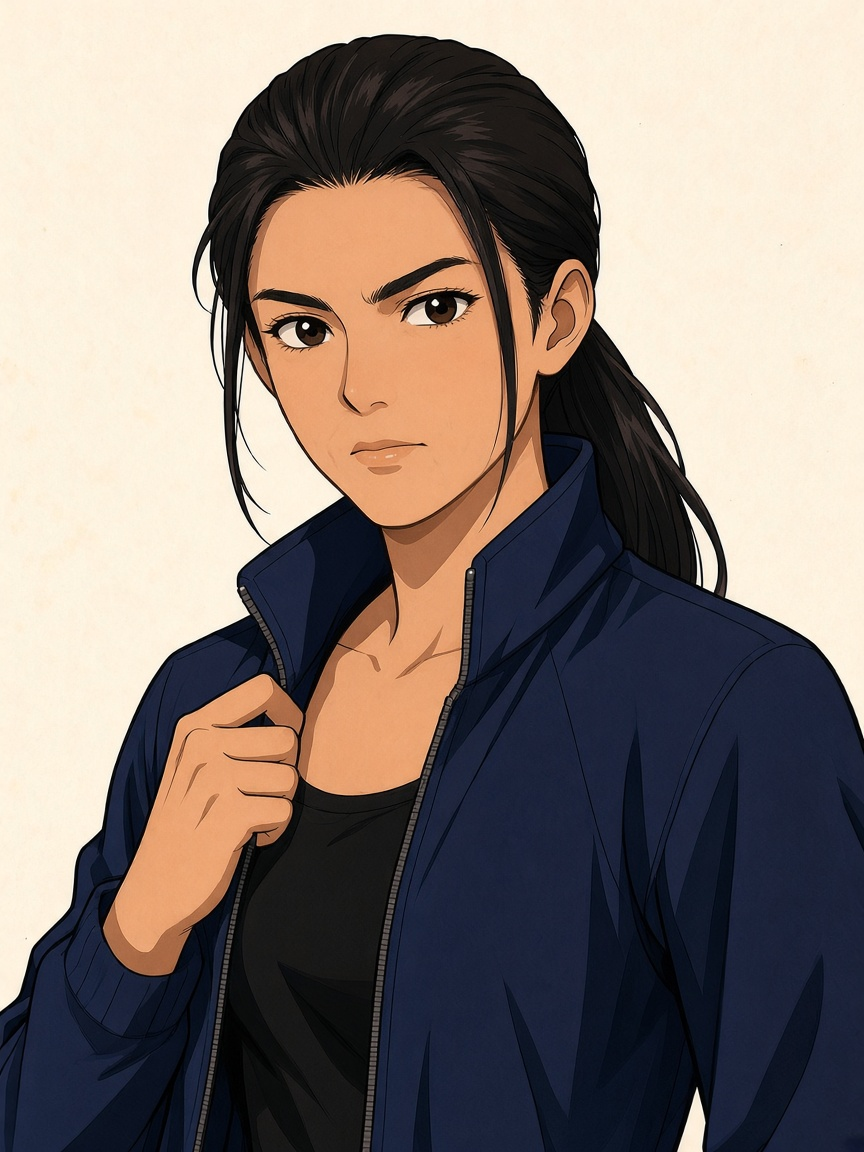
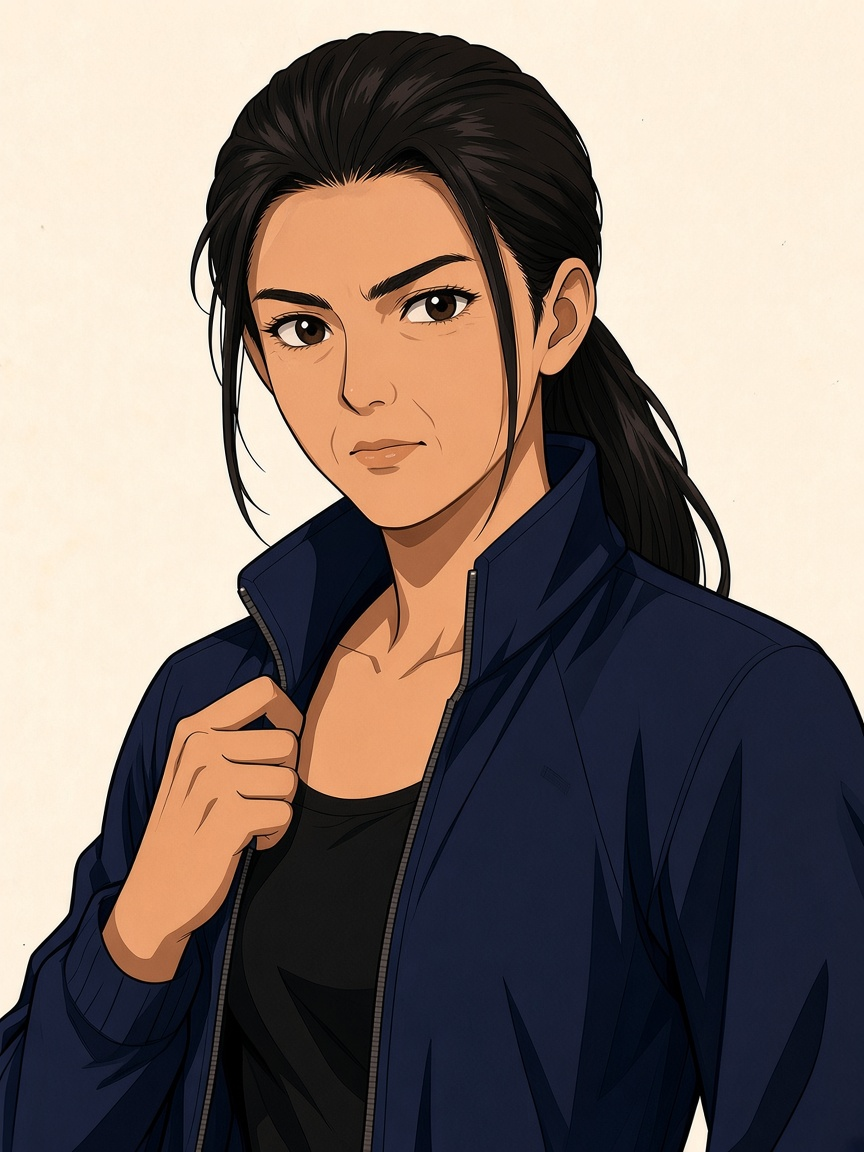
Soft: ngai age Soft nit (ngai bust×3)
Soft tip only. Soft≠PASS. No LIVE tip. SAVE/?v= still 19w.

- ngai_wingnaam default/smile/frown age-up; kara-v5 lock
- so energy busts unchanged; frown jade-v4 lock unchanged
- 89–92 HOLD

diff --git a/assets/story/era_stars/MANIFEST.md b/assets/story/era_stars/MANIFEST.md
@@ -4,7 +4,7 @@
 > **Brief：** `content/ART_BRIEF_MVP_ERA_STARS_v1.md`  
 > **LOOKS：** `content/PLAN_CHAR_LOOKS_REF_v1.md` §C  
 > **Pipeline：** cursor **GenerateImage**（refs `hero_awi.jpg`＋`char_hero_bust_default.png`）→ Pillow cover-crop **864×1152** PNG  
-> **狀態：** **Soft tip 2026-11-05** — **luk leather v5b**＋**liu chow-vibe v10**＋**yip starlet-v3**＋**so jade-v4**＋**ngai kara-v5**（各 bust×3）。5 人 ×3 表情＝15 live bust。ngai kara-v2 已由 kara-v5 取代，唔再係 live。**Soft nits expr** 已換 so smile／luk smile／ngai×3（bak `bak_pre_soft_nits_expr_20261105/` 唔入本 PR）。**so energy Soft nit** 已換 default＋smile（frown 未動；bak 唔入本 PR）。**silhouettes v2** 5／5 `*_silhouette_far.png` 已入 Soft（bak 唔入本 PR）。挑眉 `raise_brow` 後排、唔動。Soft≠PASS；**唔 tip LIVE**；**1989–1992 HOLD**；`?v=` 仍 `19w`；SAVE `starVolunteer_map_v19w`
+> **狀態：** **Soft tip 2026-11-05** — **luk leather v5b**＋**liu chow-vibe v10**＋**yip starlet-v3**＋**so jade-v4**＋**ngai kara-v5**（各 bust×3）。5 人 ×3 表情＝15 live bust。ngai kara-v2 已由 kara-v5 取代，唔再係 live。**Soft nits expr** 已換 so smile／luk smile／ngai×3（bak `bak_pre_soft_nits_expr_20261105/` 唔入本 PR）。**so energy Soft nit** 已換 default＋smile（frown 未動；bak 唔入本 PR）。**ngai age Soft nit** 已換×3（kara-v5 低馬尾＋navy zip 鎖；bak 唔入本 PR）。**silhouettes v2** 5／5 `*_silhouette_far.png` 已入 Soft（bak 唔入本 PR）。挑眉 `raise_brow` 後排、唔動。Soft≠PASS；**唔 tip LIVE**；**1989–1992 HOLD**；`?v=` 仍 `19w`；SAVE `starVolunteer_map_v19w`
 
 ## Style-lock MD5（installed live）
 
@@ -16,9 +16,9 @@
 | `luk_baakyin_bust_default.png` | `f0bc02d8db898c1d6799b8cabed342c7` |
 | `luk_baakyin_bust_frown.png` | `d379b32269a427c4695399c46c553b3a` |
 | `luk_baakyin_bust_smile.png` | `202a6200b9a7bf019d63d8e5c1dd440c` |
-| `ngai_wingnaam_bust_default.png` | `1729ee30129632fd13ed3bad8a297537` |
-| `ngai_wingnaam_bust_frown.png` | `8a4ef50ea433990fb77dcba4db6d90d4` |
-| `ngai_wingnaam_bust_smile.png` | `fea5a4769558bed238a71b6e0273b77b` |
+| `ngai_wingnaam_bust_default.png` | `09f792112aa46a9e11e390cb5daec152` |
+| `ngai_wingnaam_bust_frown.png` | `5df4f5fa6c6317e3e0a189b0eb5bc814` |
+| `ngai_wingnaam_bust_smile.png` | `8f1abdaf2f4a3db803c950e424c30fc0` |
 | `so_jiyan_bust_default.png` | `2cc1a57050e1bf20d847d87938d1c1d0` |
 | `so_jiyan_bust_frown.png` | `f0c0347ebfb54d00993428404ab2e231` |
 | `so_jiyan_bust_smile.png` | `e57ab12a1329850c0b544a92fdd2ea46` |
@@ -34,7 +34,7 @@
 | `yip_manji` | 葉敏芝 | bust×3 + sil **v2** | 864×1152 | **starlet-v3 2026-11-05**：露肩 dusty-rose；邱淑貞／張敏氣質（禁抄臉）；GenerateImage。bak `bak_pre_yip_starlet_v3/` 留盤，唔入本 PR |
 | `so_jiyan` | 蘇芷茵 | bust×3 + `*_silhouette_far.png`（**sil v2 新建**） | 864×1152 | **jade-v4**＋**energy Soft nit 2026-11-05**（default＋smile 更有精神／眼閃；MD5 `2cc1a570`／`e57ab12a`）。frown `f0c0347e` 未動。bak `bak_pre_so_jade_v4/`＋`bak_pre_soft_nits_expr_20261105/`＋`bak_pre_so_energy_soft_nit_20261105/` 留盤，唔入本 PR |
 | `liu_bingxing` | 廖炳星 | bust×3 + sil **v2** | 864×1152 | **chow-vibe v10 2026-11-05**：花恤衫正面；周星馳氣質（禁抄臉）；GenerateImage。bak `bak_pre_liu_chow_v10/` 留盤，唔入本 PR |
-| `ngai_wingnaam` | 魏詠男 | bust×3 + sil **v2** | 864×1152 | **kara-v5**＋**Soft nits expr 2026-11-05×3**（表情差拉開；年齡仍偏嫩）。kara-v2 唔再係 live。bak `bak_pre_ngai_kara_v5/`＋`bak_pre_soft_nits_expr_20261105/` 留盤，唔入本 PR |
+| `ngai_wingnaam` | 魏詠男 | bust×3 + sil **v2** | 864×1152 | **kara-v5**＋**age Soft nit 2026-11-05×3**（晚三十讀齡↑；低馬尾＋navy zip 統一；MD5 `09f79211`／`8f1abdaf`／`5df4f5fa`）。kara-v2 唔再係 live。bak `bak_pre_ngai_kara_v5/`＋`bak_pre_soft_nits_expr_20261105/`＋`bak_pre_ngai_age_soft_nit_20261105/` 留盤，唔入本 PR |
 
 **Bust 底：** cream studio ~`#F2EBD8`（跟 C1／阿偉）。  
 **本 Soft tip：** 15 live bust PNG 仍在（其中 so smile、luk smile、ngai default／smile／frown 換 Soft nits expr）；另加 5 live `*_silhouette_far.png`。preferFile 仍未加 era_stars bust path。Soft gate（`BehaviorGate.gatePath()==="soft"`）遠觀 modal 喺 distanceLook 之上顯示 `{starId}_silhouette_far.png`；Soft off／LIVE 仍係文字＋音（Phase3 B）。蘇芷茵無地圖遠觀釘（主表仍 4 人）；Soft `__phase3.sight("so_jiyan")` 先開佢張剪影。  
@@ -53,7 +53,7 @@
 
 1. `luk_baakyin` smile Soft nit **2026-11-05 已換**（露齒＋酒窩；MD5 `202a6200`）；**frown Soft nit 2026-11-05 已換**（深 V 皺眉＋鼻樑壓＋下撇嘴；MD5 `d379b322`；對開 default smirk／smile 露齒）。Soft nits（唔擋）：怒氣線可再強；眉峰 V 可再銳  
 2. `so_jiyan` **energy Soft nit 2026-11-05 已換** default＋smile（MD5 `2cc1a570`／`e57ab12a`；閉唇淺笑＋眼神／smile 露齒眼閃；frown `f0c0347e` 未動）。Soft nits（唔擋）：default 嘴角仍偏親切微笑（可選再收、專推眼閃）；modern polish 線密度；default NEW RGB vs bak RGBA（尺寸／構圖 OK，記帳 only）  
-3. `ngai_wingnaam` Soft nits expr **2026-11-05 已換×3**（default／smile／frown MD5 `1729ee30`／`fea5a476`／`8a4ef50e`）；**年齡仍偏嫩**（~38 未清）。kara-v2 已由 v5 取代，唔再係 live  
+3. `ngai_wingnaam` **age Soft nit 2026-11-05 已換×3**（default／smile／frown MD5 `09f79211`／`8f1abdaf`／`5df4f5fa`；晚三十 cel 紋／顎線；kara-v5 低馬尾＋navy zip）。kara-v2 唔再係 live。Soft nits（唔擋）：smile 年齡線略重；default 可讀略過 38；髮絲 modern polish；zip vs brief sil（本輪未改 sil）  
 4. `yip_manji` starlet-v3：咬唇／眨眼能量仍可再推；default↔smile 差可再拉開  
 5. `liu_bingxing` chow-vibe v10：default↔smile 差可再拉開；frown 吃癟可再強  
 6. 整體略 modern polished anime／manhwa 線密度（同 core Soft nit），仍係平面 2D 家族——非先前半寫實漂移  
@@ -67,7 +67,7 @@
 
 ## Gates
 
-Soft≠PASS｜唔 tip LIVE｜唔 wake iOS｜89–92 HOLD｜silhouettes v2 Soft tip（遠觀只限 Soft gate）｜expr nits Soft tip｜so energy Soft nit（default＋smile；frown 未動）｜raise_brow 後排｜`?v=` 仍 `19w`｜SAVE `starVolunteer_map_v19w`
+Soft≠PASS｜唔 tip LIVE｜唔 wake iOS｜89–92 HOLD｜silhouettes v2 Soft tip（遠觀只限 Soft gate）｜expr nits Soft tip｜so energy Soft nit（default＋smile；frown 未動）｜ngai age Soft nit×3｜raise_brow 後排｜`?v=` 仍 `19w`｜SAVE `starVolunteer_map_v19w`
 
 ## Pack
 
@@ -91,6 +91,8 @@ Soft≠PASS｜唔 tip LIVE｜唔 wake iOS｜89–92 HOLD｜silhouettes v2 Soft t
 
 `/workspace/star-volunteer-web-so-energy-soft-nit.tar.gz`（只換 live `so_jiyan_bust_default.png`＋`so_jiyan_bust_smile.png`；bak／QA composite／QA md 唔入本 PR）
 
+`/workspace/star-volunteer-web-ngai-age-soft-nit.tar.gz`（只換 live `ngai_wingnaam` bust×3；bak／QA md 唔入本 PR）
+
 ## Related
 
 - Prior MVP：`/workspace/star-volunteer-web-era-stars-mvp.tar.gz`；ngai fix `/workspace/star-volunteer-web-era-ngai-cork-fix.tar.gz`
@@ -113,3 +115,11 @@ Soft≠PASS｜唔 tip LIVE｜唔 wake iOS｜89–92 HOLD｜silhouettes v2 Soft t
 - Soft nits（唔擋 Soft tip）：default 嘴角仍偏親切微笑（可選再收）；modern polish 線密度；default NEW RGB vs bak RGBA
 - Soft≠PASS｜唔 tip LIVE｜唔抬 ?v=｜89–92 HOLD
 - Pack：`/workspace/star-volunteer-web-so-energy-soft-nit.tar.gz`
+
+## ngai age Soft nit 2026-11-05 (Asia/Hong_Kong)
+- 只換 live：`ngai_wingnaam_bust_default.png` MD5 `09f792112aa46a9e11e390cb5daec152`；`ngai_wingnaam_bust_smile.png` MD5 `8f1abdaf2f4a3db803c950e424c30fc0`；`ngai_wingnaam_bust_frown.png` MD5 `5df4f5fa6c6317e3e0a189b0eb5bc814`（864×1152 RGB）
+- kara-v5 lock：低馬尾＋navy zip track＋理領。唔改 `ngai_wingnaam_silhouette_far.png`
+- 對開舊：default `1729ee30129632fd13ed3bad8a297537`；smile `fea5a4769558bed238a71b6e0273b77b`；frown `8a4ef50ea433990fb77dcba4db6d90d4`。bak `bak_pre_ngai_age_soft_nit_20261105/` 留盤、唔入本 PR
+- Soft nits（唔擋 Soft tip）：smile 年齡線略重；default 可讀略過 38；髮絲 modern polish；zip vs brief sil
+- Soft≠PASS｜唔 tip LIVE｜唔抬 ?v=｜89–92 HOLD
+- Pack：`/workspace/star-volunteer-web-ngai-age-soft-nit.tar.gz`

diff --git a/assets/STYLE_CANON.md b/assets/STYLE_CANON.md
@@ -82,3 +82,12 @@
 - Soft nits（唔擋 Soft tip）：default 嘴角仍偏親切微笑（可選再收、專推眼閃）；modern polish 線密度；default NEW RGB vs bak RGBA（記帳 only）
 - Soft≠PASS；唔 tip LIVE；`?v=` 仍 `19w`；SAVE `starVolunteer_map_v19w`；89–92 HOLD
 - Pack：`/workspace/star-volunteer-web-so-energy-soft-nit.tar.gz`
+
+## ngai age Soft nit（2026-11-05 Asia/Hong_Kong）
+
+- 只換：`story/era_stars/ngai_wingnaam_bust_default.png` MD5 `09f79211`；`ngai_wingnaam_bust_smile.png` MD5 `8f1abdaf`；`ngai_wingnaam_bust_frown.png` MD5 `5df4f5fa`
+- kara-v5 lock：低馬尾＋navy zip track＋理領／黑 tee；cel-shade lock `hero_awi`。Pipeline：GenerateImage → 864×1152 RGB。唔改 era／core silhouette
+- 對開舊 default `1729ee30`／smile `fea5a476`／frown `8a4ef50e`。bak `era_stars/bak_pre_ngai_age_soft_nit_20261105/` 留盤、唔入本 PR
+- Soft nits（唔擋 Soft tip）：smile 年齡線略重；default 可讀略過 38；髮絲 modern polish；zip vs brief sil（本輪未改 sil）
+- Soft≠PASS；唔 tip LIVE；`?v=` 仍 `19w`；SAVE `starVolunteer_map_v19w`；89–92 HOLD
+- Pack：`/workspace/star-volunteer-web-ngai-age-soft-nit.tar.gz`
